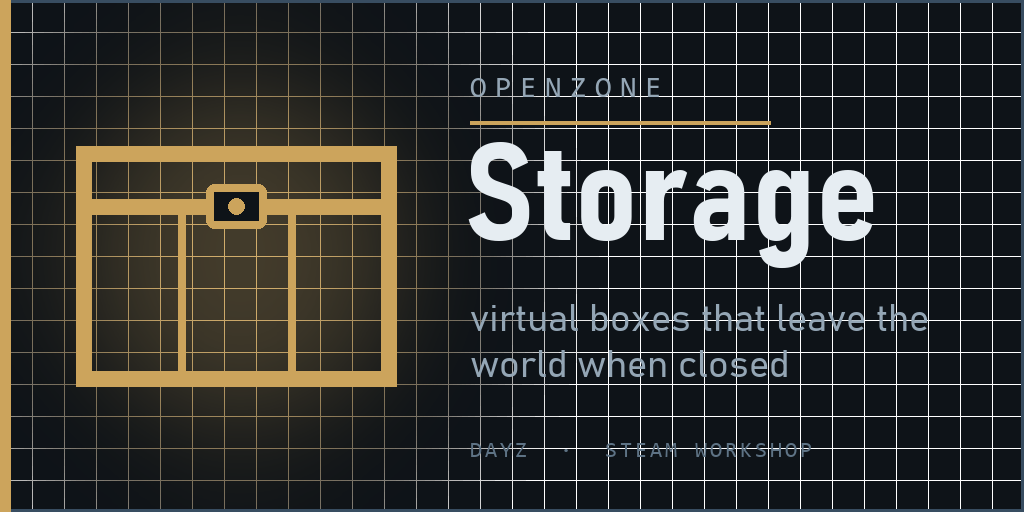
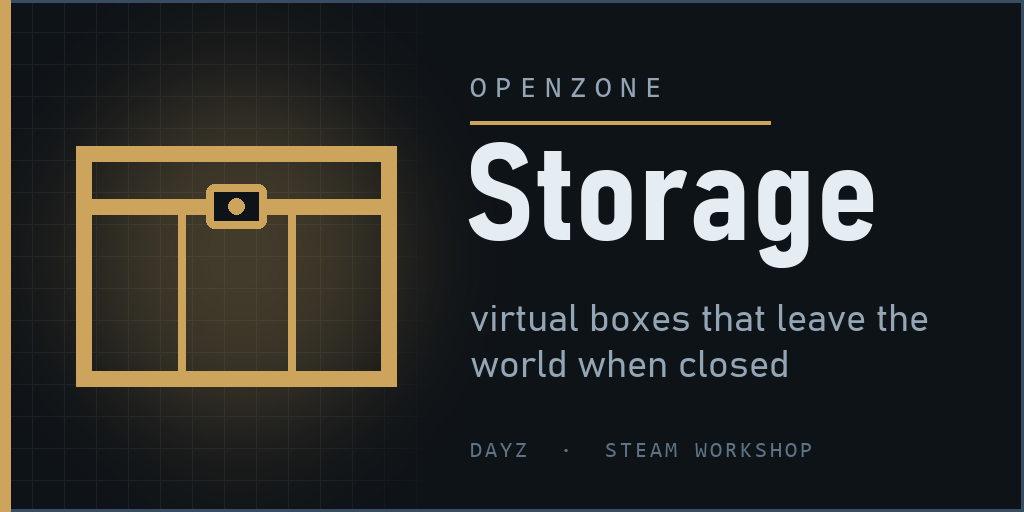
Packaging: readable Workshop titles, previews without the grid under the text
meta.cpp carries the item's Workshop title; the items are renamed from
their folder names to plain ones ("OpenZone Radio for PDA", "... for VPP
Admin Tools"). The preview keeps its grid under the icon only, fading
out before the text column, and names no server.

diff --git a/packaging/OpenZone_Storage/meta.cpp b/packaging/OpenZone_Storage/meta.cpp
@@ -1,3 +1,3 @@
 protocol = 1;
 publishedid = 3803455084;
-name = "OZ_Storage";
+name = "OpenZone Storage";
